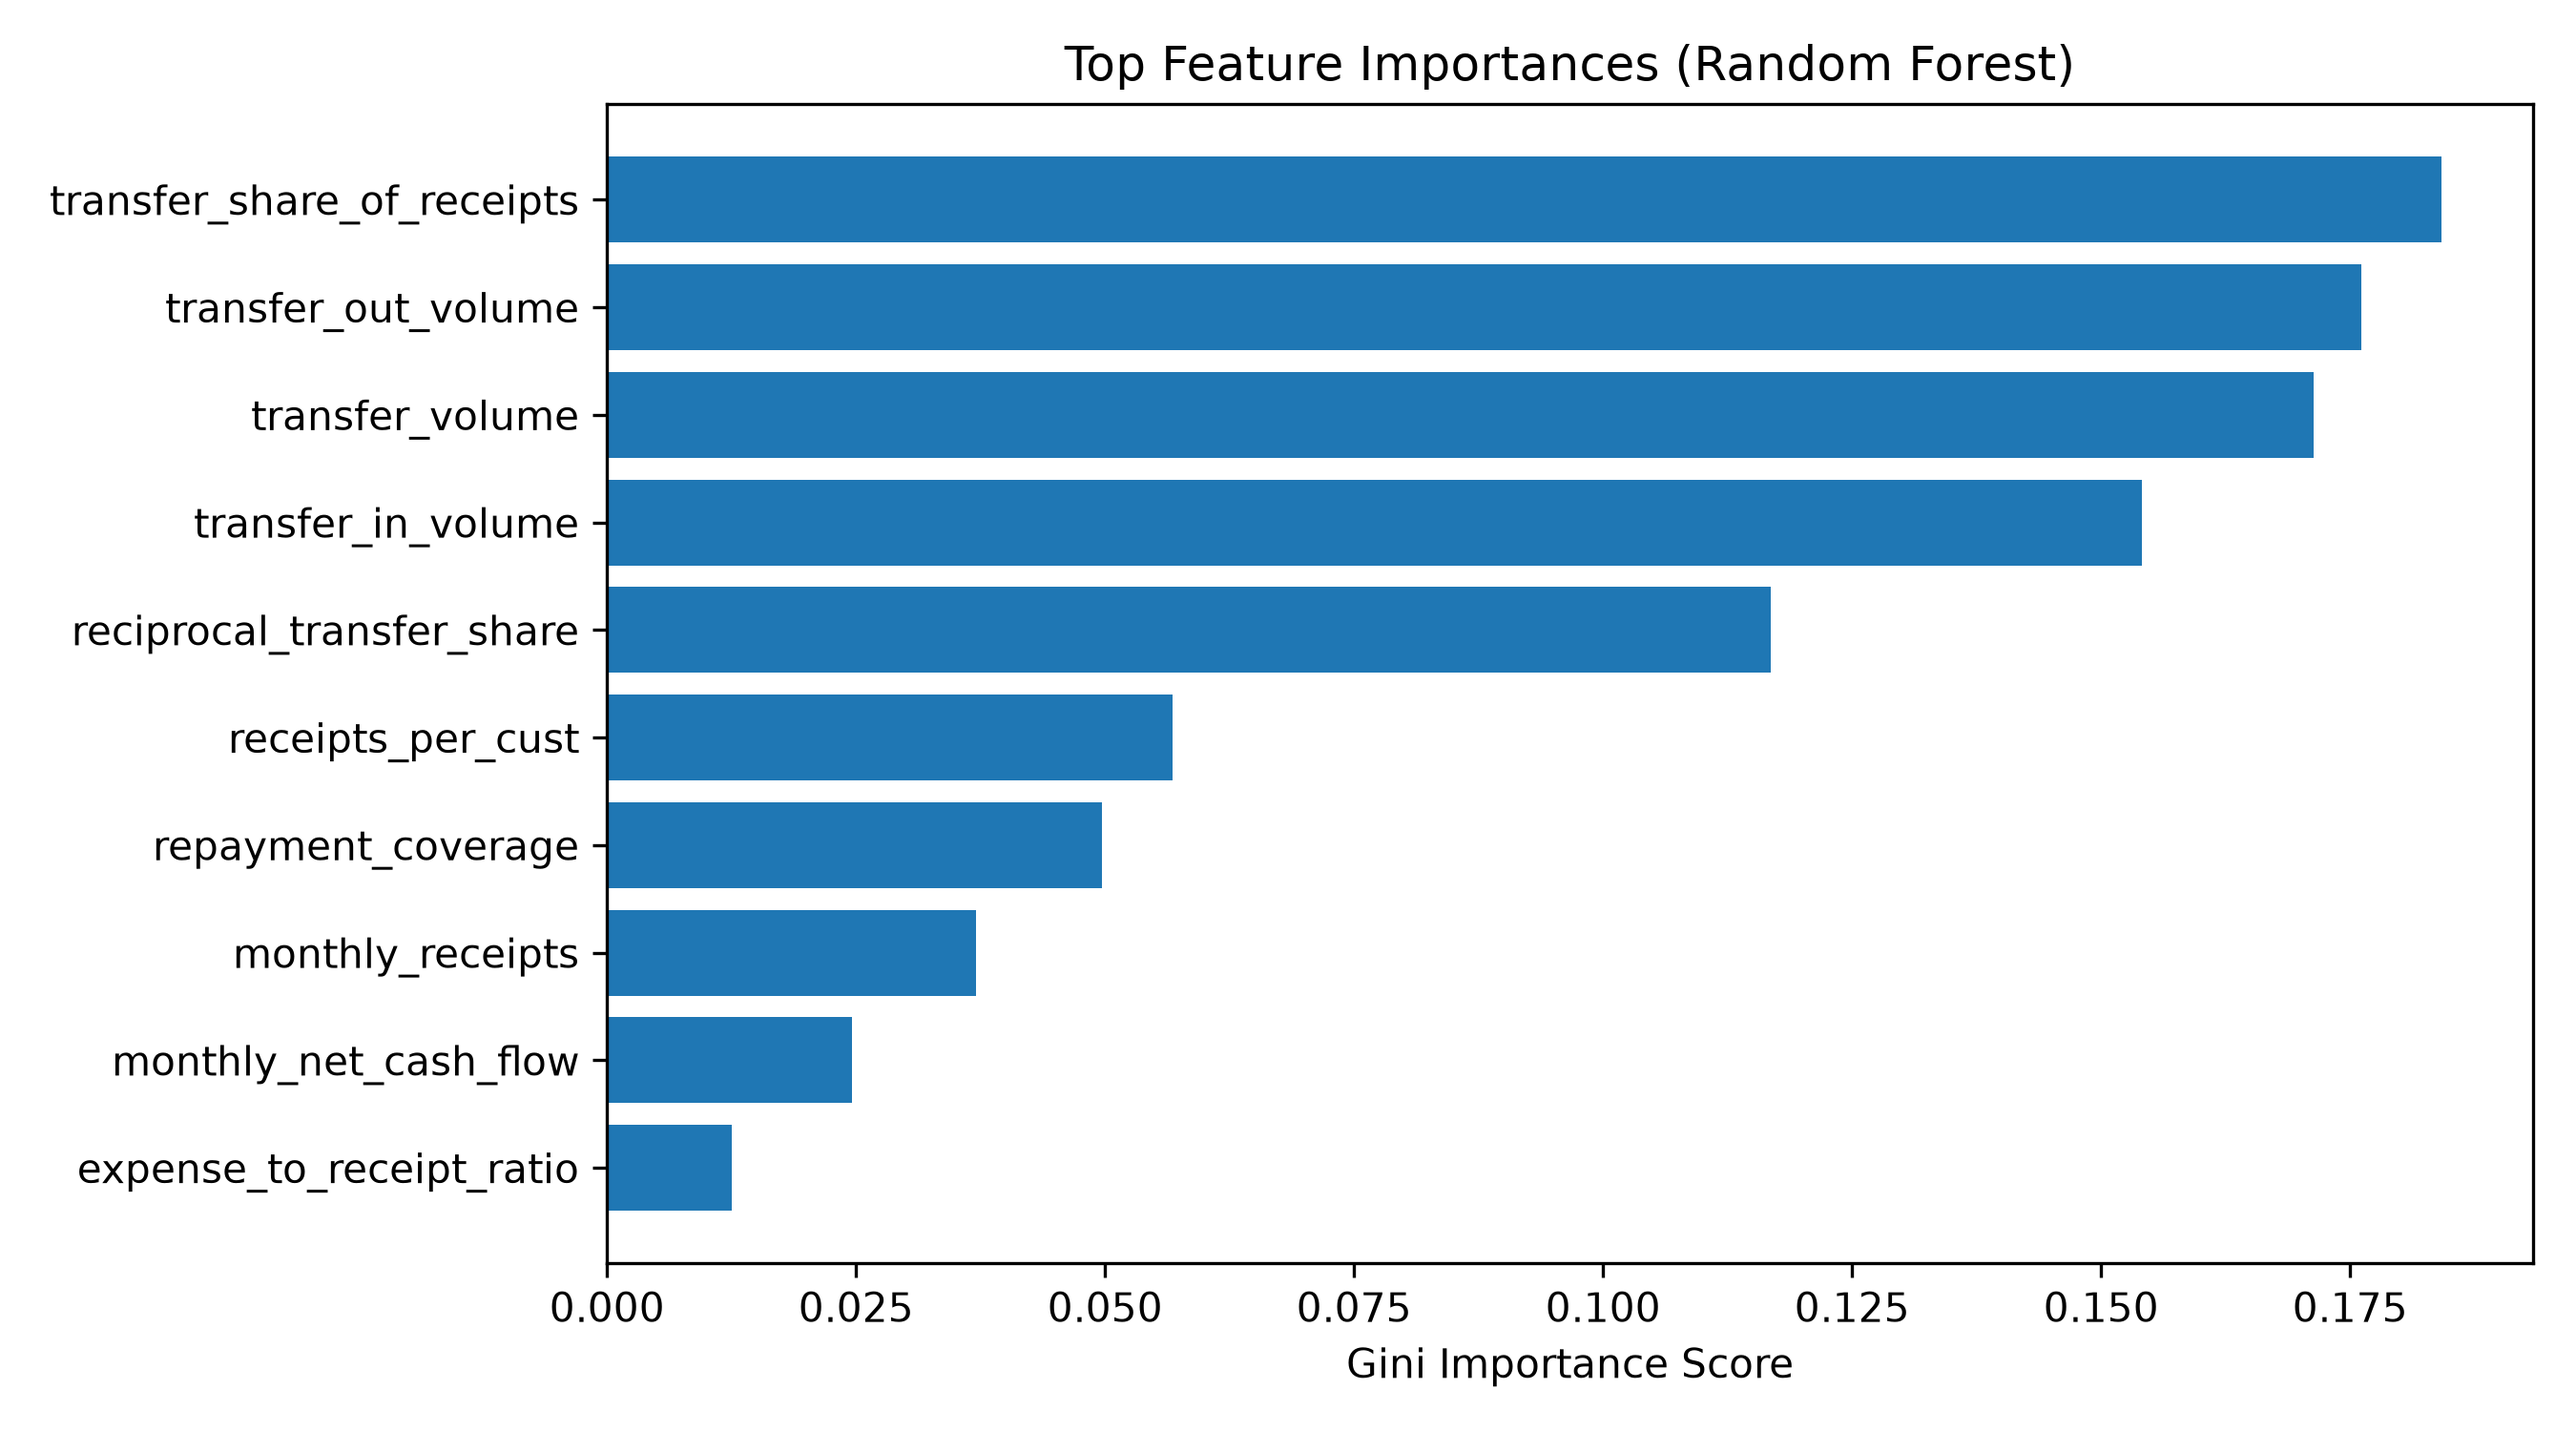
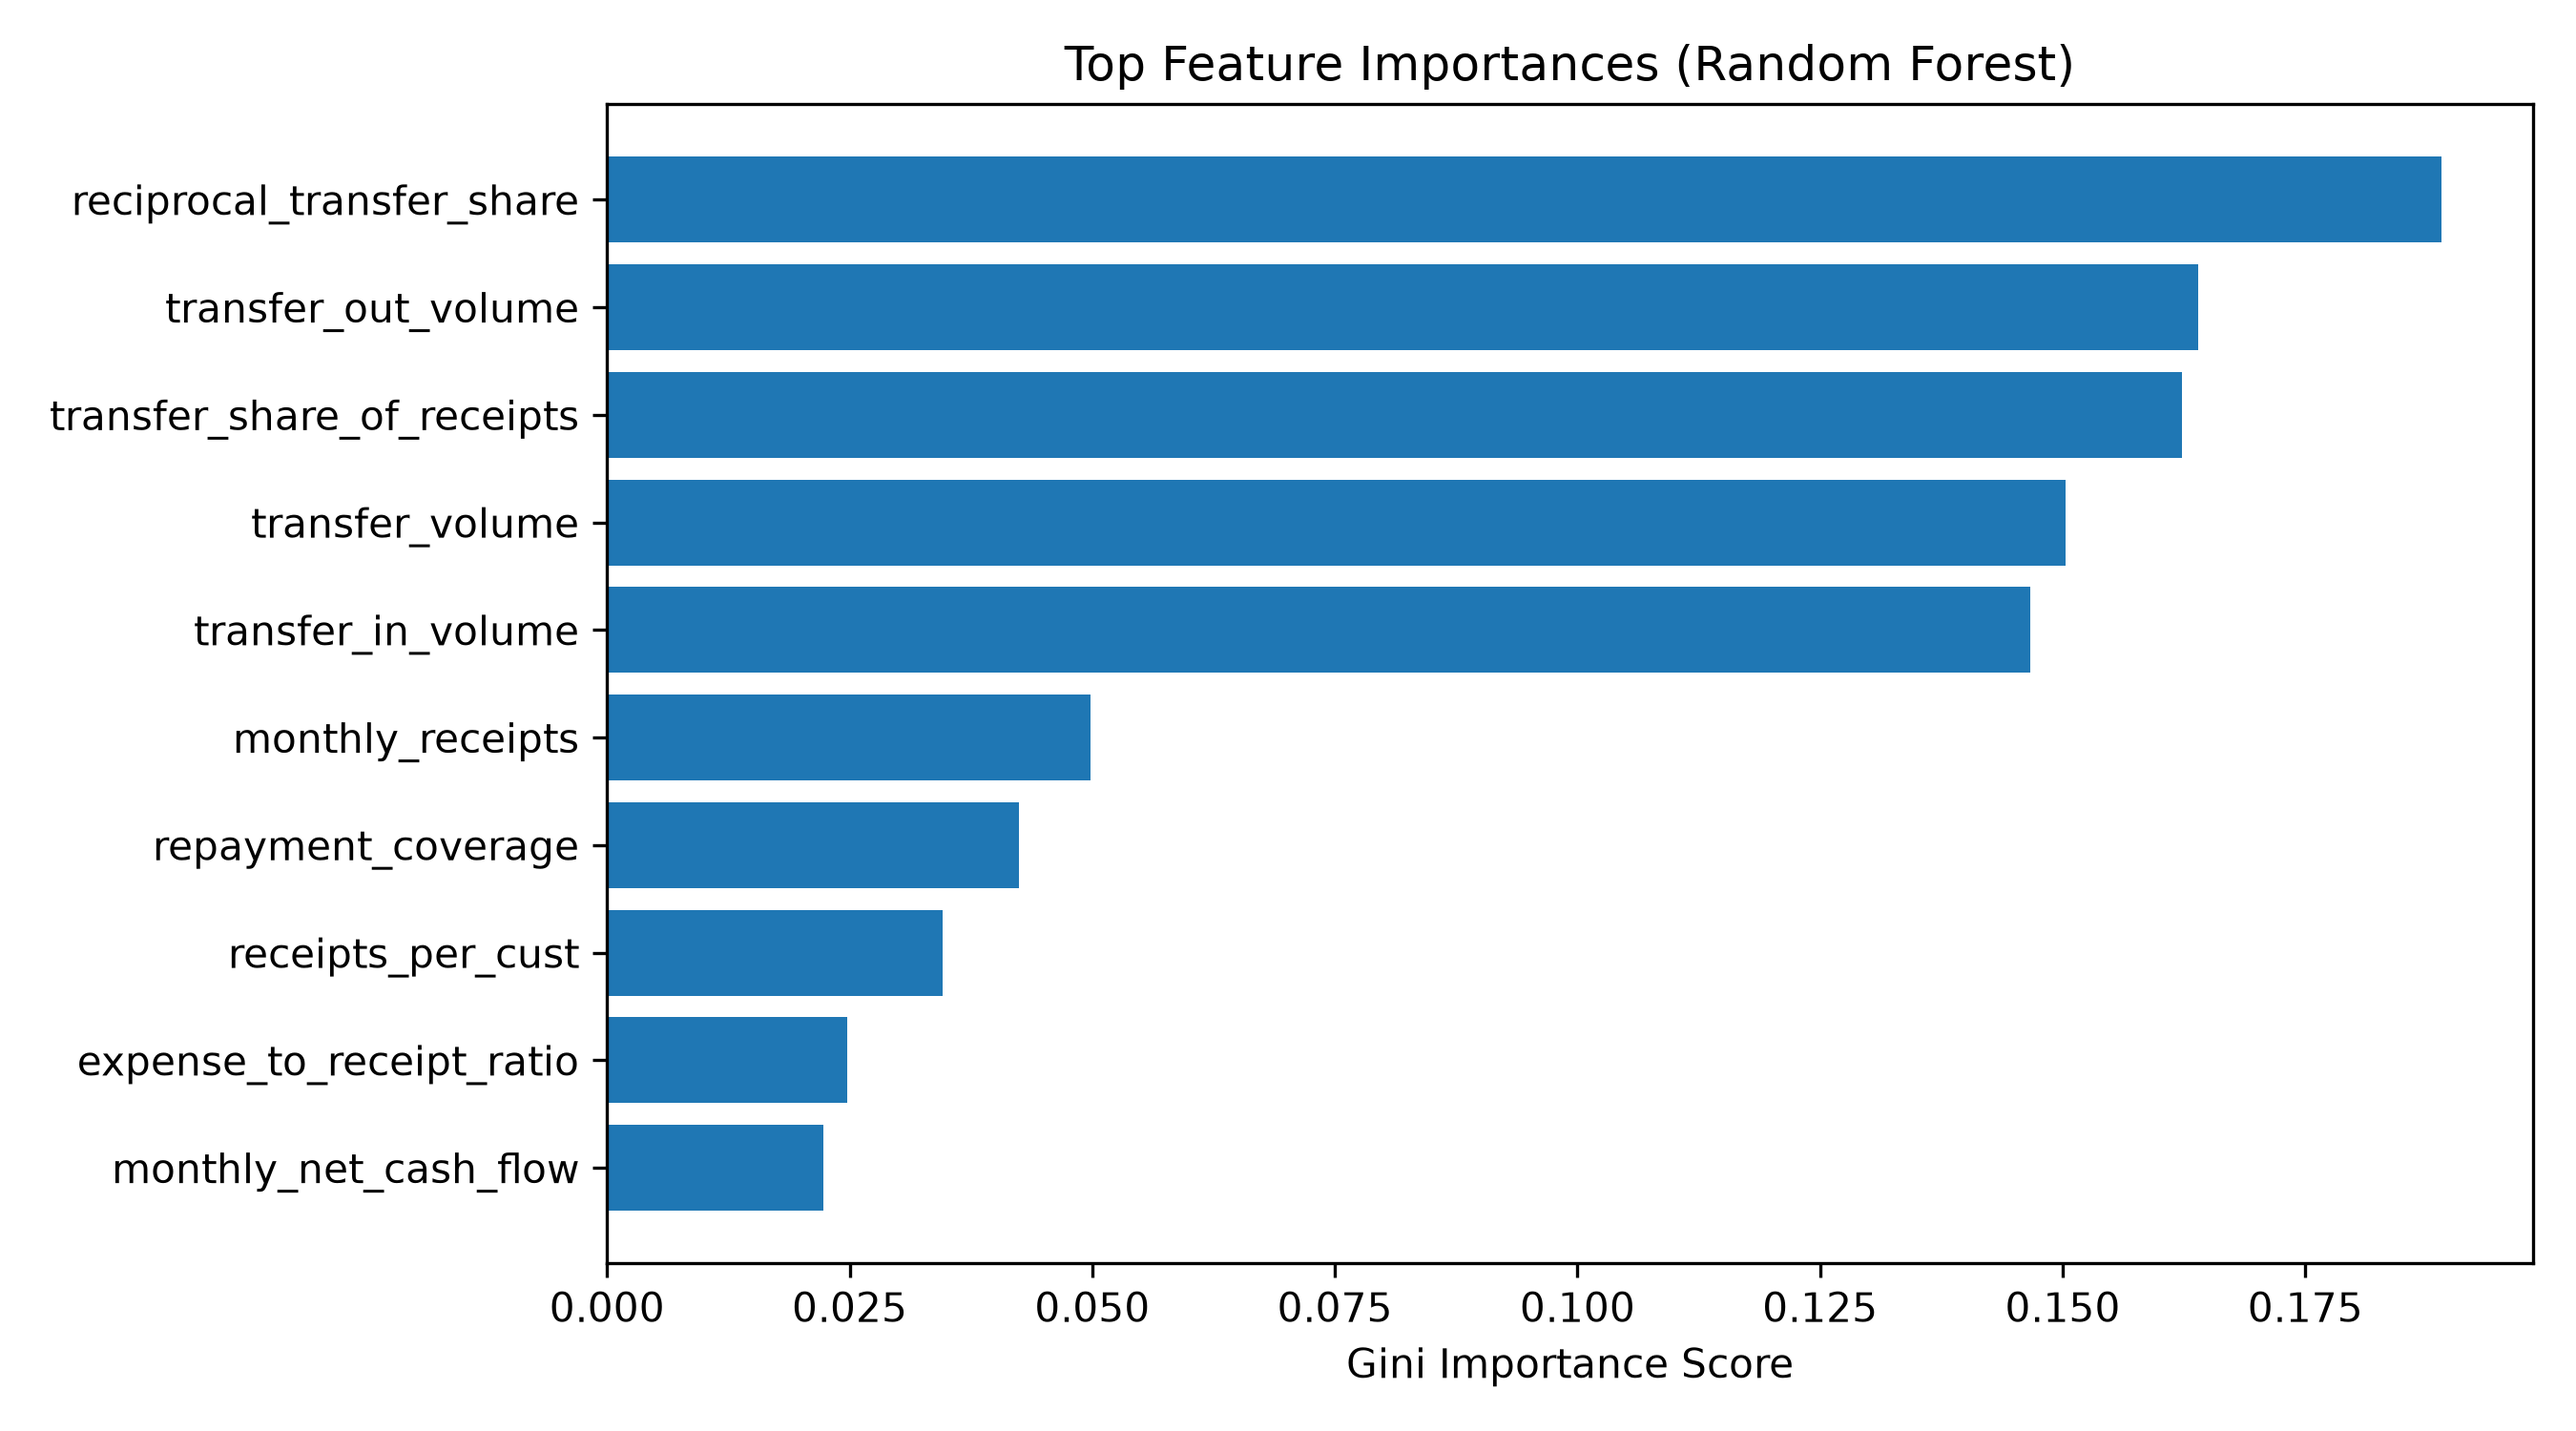
feat: add machine learning training pipeline, model artifacts, and evaluation metrics

diff --git a/ml-training/train.py b/ml-training/train.py
@@ -35,11 +35,197 @@ import seaborn as sns
 from sklearn.model_selection import StratifiedKFold, cross_val_score, train_test_split
 from sklearn.preprocessing import StandardScaler
 from sklearn.linear_model import LogisticRegression
-from sklearn.ensemble import RandomForestClassifier, IsolationForest
 from sklearn.metrics import (
     accuracy_score, precision_score, recall_score, f1_score,
     roc_auc_score, confusion_matrix, classification_report
 )
+from sklearn.base import BaseEstimator, ClassifierMixin, OutlierMixin
+
+try:
+    from sklearn.tree import _criterion  # Test if Cython extension loads under OS App Control
+    from sklearn.ensemble import RandomForestClassifier, IsolationForest
+except (ImportError, OSError):
+    # Resilient fallback implementations when OS Application Control blocks Cython C-extensions
+    class SimpleDecisionTree:
+        def __init__(self, max_depth=4, min_samples_split=2):
+            self.max_depth = max_depth
+            self.min_samples_split = min_samples_split
+            self.tree_ = None
+
+        def fit(self, X, y, rng=None, max_features=None):
+            if rng is None:
+                rng = np.random.RandomState(42)
+            self.n_features_in_ = X.shape[1]
+            self.importances_ = np.zeros(X.shape[1])
+            self.tree_ = self._grow_tree(X, y, 0, rng, max_features)
+            return self
+
+        def _gini(self, y):
+            m = len(y)
+            if m == 0:
+                return 0.0
+            p1 = np.sum(y == 1) / m
+            return 1.0 - (p1 ** 2 + (1.0 - p1) ** 2)
+
+        def _grow_tree(self, X, y, depth, rng, max_features):
+            n_samples, n_features = X.shape
+            p1 = float(np.mean(y)) if n_samples > 0 else 0.5
+            leaf = {'type': 'leaf', 'prob': p1, 'pred': int(p1 >= 0.5)}
+
+            if depth >= self.max_depth or n_samples < self.min_samples_split or len(np.unique(y)) <= 1:
+                return leaf
+
+            feat_indices = np.arange(n_features)
+            if max_features and max_features < n_features:
+                feat_indices = rng.choice(feat_indices, size=max_features, replace=False)
+
+            best_gini = self._gini(y)
+            current_impurity = best_gini
+            best_feat, best_thresh = None, None
+
+            for feat in feat_indices:
+                vals = np.unique(X[:, feat])
+                if len(vals) <= 1:
+                    continue
+                thresholds = (vals[:-1] + vals[1:]) / 2.0
+                for thresh in thresholds:
+                    left_mask = X[:, feat] <= thresh
+                    right_mask = ~left_mask
+                    if not np.any(left_mask) or not np.any(right_mask):
+                        continue
+                    g_left = self._gini(y[left_mask])
+                    g_right = self._gini(y[right_mask])
+                    w_gini = (np.sum(left_mask) * g_left + np.sum(right_mask) * g_right) / n_samples
+                    if w_gini < best_gini:
+                        best_gini = w_gini
+                        best_feat = feat
+                        best_thresh = thresh
+
+            if best_feat is None:
+                return leaf
+
+            gain = current_impurity - best_gini
+            self.importances_[best_feat] += gain * n_samples
+
+            left_mask = X[:, best_feat] <= best_thresh
+            return {
+                'type': 'node',
+                'feat': best_feat,
+                'thresh': best_thresh,
+                'left': self._grow_tree(X[left_mask], y[left_mask], depth + 1, rng, max_features),
+                'right': self._grow_tree(X[~left_mask], y[~left_mask], depth + 1, rng, max_features)
+            }
+
+        def predict_row(self, node, x):
+            if node['type'] == 'leaf':
+                return node['prob']
+            if x[node['feat']] <= node['thresh']:
+                return self.predict_row(node['left'], x)
+            return self.predict_row(node['right'], x)
+
+    class RandomForestClassifier(BaseEstimator, ClassifierMixin):
+        def __init__(self, n_estimators=100, max_depth=4, random_state=42):
+            self.n_estimators = n_estimators
+            self.max_depth = max_depth
+            self.random_state = random_state
+
+        def fit(self, X, y):
+            X_mat = np.asarray(X)
+            y_vec = np.asarray(y)
+            self.classes_ = np.unique(y_vec)
+            rng = np.random.RandomState(self.random_state)
+            n_samples, n_features = X_mat.shape
+            max_features = max(1, int(np.sqrt(n_features)))
+
+            self.trees_ = []
+            raw_importances = np.zeros(n_features)
+            for _ in range(self.n_estimators):
+                idx = rng.choice(n_samples, size=n_samples, replace=True)
+                tree = SimpleDecisionTree(max_depth=self.max_depth)
+                tree.fit(X_mat[idx], y_vec[idx], rng=rng, max_features=max_features)
+                self.trees_.append(tree)
+                raw_importances += tree.importances_
+
+            total_imp = raw_importances.sum()
+            self.feature_importances_ = (raw_importances / total_imp) if total_imp > 0 else (np.ones(n_features) / n_features)
+            return self
+
+        def predict_proba(self, X):
+            X_mat = np.asarray(X)
+            probs = np.zeros(len(X_mat))
+            for tree in self.trees_:
+                probs += np.array([tree.predict_row(tree.tree_, x) for x in X_mat])
+            probs /= len(self.trees_)
+            return np.column_stack([1.0 - probs, probs])
+
+        def predict(self, X):
+            probs = self.predict_proba(X)[:, 1]
+            return (probs >= 0.5).astype(int)
+
+    class IsolationForest(BaseEstimator, OutlierMixin):
+        def __init__(self, contamination=0.1, random_state=42, n_estimators=100, max_depth=8):
+            self.contamination = contamination
+            self.random_state = random_state
+            self.n_estimators = n_estimators
+            self.max_depth = max_depth
+
+        def _c(self, n):
+            if n <= 1: return 1.0
+            if n == 2: return 1.0
+            return 2.0 * (np.log(n - 1) + 0.5772156649) - (2.0 * (n - 1) / n)
+
+        def fit(self, X, y=None):
+            X_mat = np.asarray(X)
+            rng = np.random.RandomState(self.random_state)
+            n_samples, n_features = X_mat.shape
+            self.trees_ = []
+            for _ in range(self.n_estimators):
+                tree = self._build_tree(X_mat, 0, self.max_depth, rng)
+                self.trees_.append(tree)
+            self.c_n_ = self._c(n_samples)
+            raw_scores = self._compute_raw_scores(X_mat)
+            self.offset_ = np.percentile(raw_scores, self.contamination * 100.0)
+            return self
+
+        def _build_tree(self, X, depth, max_depth, rng):
+            n_samples = len(X)
+            if depth >= max_depth or n_samples <= 1:
+                return {'type': 'leaf', 'size': n_samples}
+            feat = rng.randint(0, X.shape[1])
+            f_min, f_max = X[:, feat].min(), X[:, feat].max()
+            if f_min == f_max:
+                return {'type': 'leaf', 'size': n_samples}
+            split = rng.uniform(f_min, f_max)
+            left = X[X[:, feat] < split]
+            right = X[X[:, feat] >= split]
+            return {
+                'type': 'node', 'feat': feat, 'split': split,
+                'left': self._build_tree(left, depth + 1, max_depth, rng),
+                'right': self._build_tree(right, depth + 1, max_depth, rng)
+            }
+
+        def _path_length(self, x, tree, current_depth):
+            if tree['type'] == 'leaf':
+                return current_depth + (self._c(tree['size']) if tree['size'] > 1 else 0.0)
+            if x[tree['feat']] < tree['split']:
+                return self._path_length(x, tree['left'], current_depth + 1)
+            return self._path_length(x, tree['right'], current_depth + 1)
+
+        def _compute_raw_scores(self, X_mat):
+            paths = np.zeros(len(X_mat))
+            for x_idx, x in enumerate(X_mat):
+                total_len = sum(self._path_length(x, t, 0) for t in self.trees_)
+                paths[x_idx] = total_len / len(self.trees_)
+            return -(2.0 ** (-paths / max(self.c_n_, 1e-6)))
+
+        def decision_function(self, X):
+            X_mat = np.asarray(X)
+            return self._compute_raw_scores(X_mat) - self.offset_
+
+        def fit_predict(self, X, y=None):
+            self.fit(X)
+            raw_scores = self._compute_raw_scores(np.asarray(X))
+            return np.where(raw_scores < self.offset_, -1, 1)
 
 logging.basicConfig(
     level=logging.INFO,
@@ -400,10 +586,10 @@ def split_train_test(vendor_df: pd.DataFrame, txns_df: pd.DataFrame, output_dir:
 
     # Stratified 80/20 vendor split
     train_idx, test_idx = train_test_split(
-        vendor_df.index,
+        vendor_df.index.to_numpy(),
         test_size=0.20,
         random_state=42,
-        stratify=y
+        stratify=y.to_numpy()
     )
 
     X_train = X.loc[train_idx]
@@ -806,6 +992,10 @@ def main():
 
     # 6. 100-Point Scorecard
     scores_df = compute_scorecard(labeled_features_df, charts_dir, script_dir)
+    frontend_data_dir = repo_root / "frontend" / "data"
+    if frontend_data_dir.exists():
+        scores_df.to_csv(frontend_data_dir / "vendor_scores.csv", index=False)
+        logger.info(f"Updated frontend scorecard data at {frontend_data_dir / 'vendor_scores.csv'}")
 
     # 7. Save Model & Metrics Artifacts
     model_artifact = {
